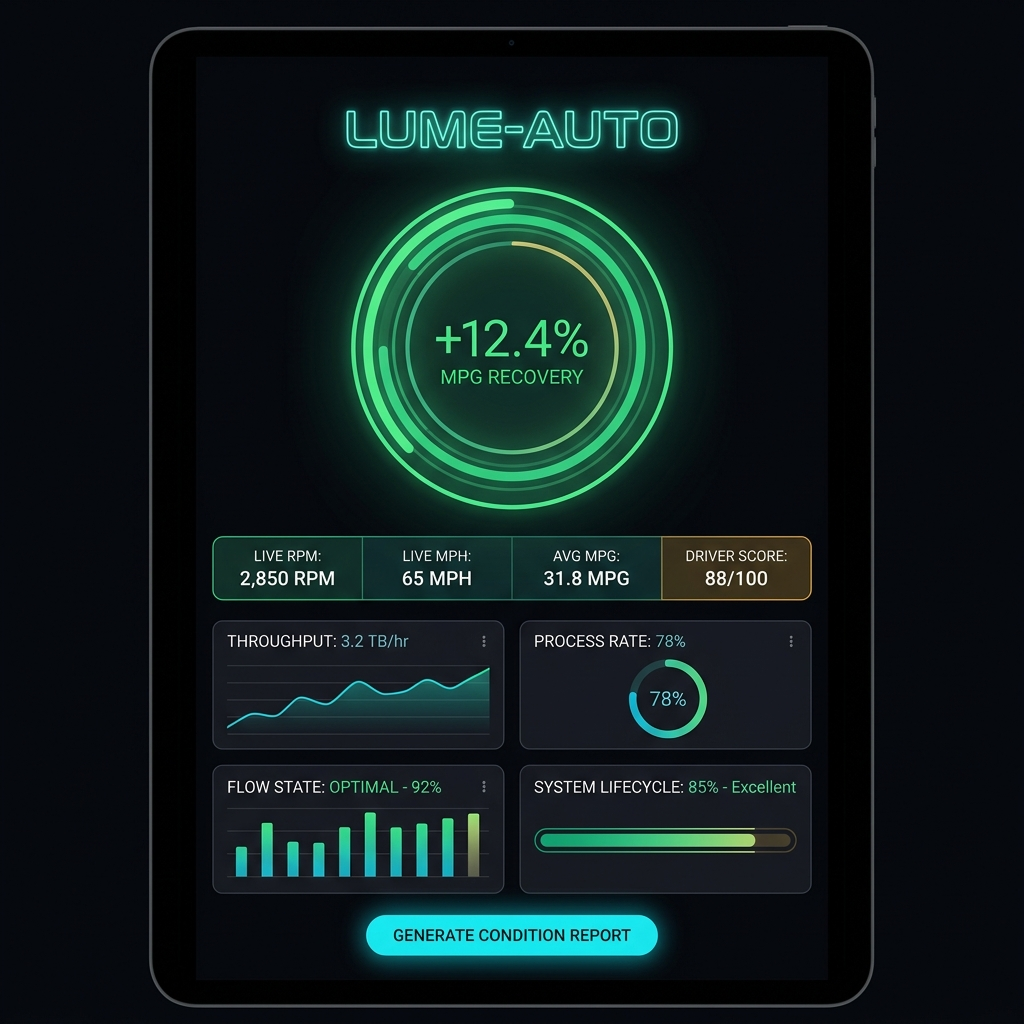
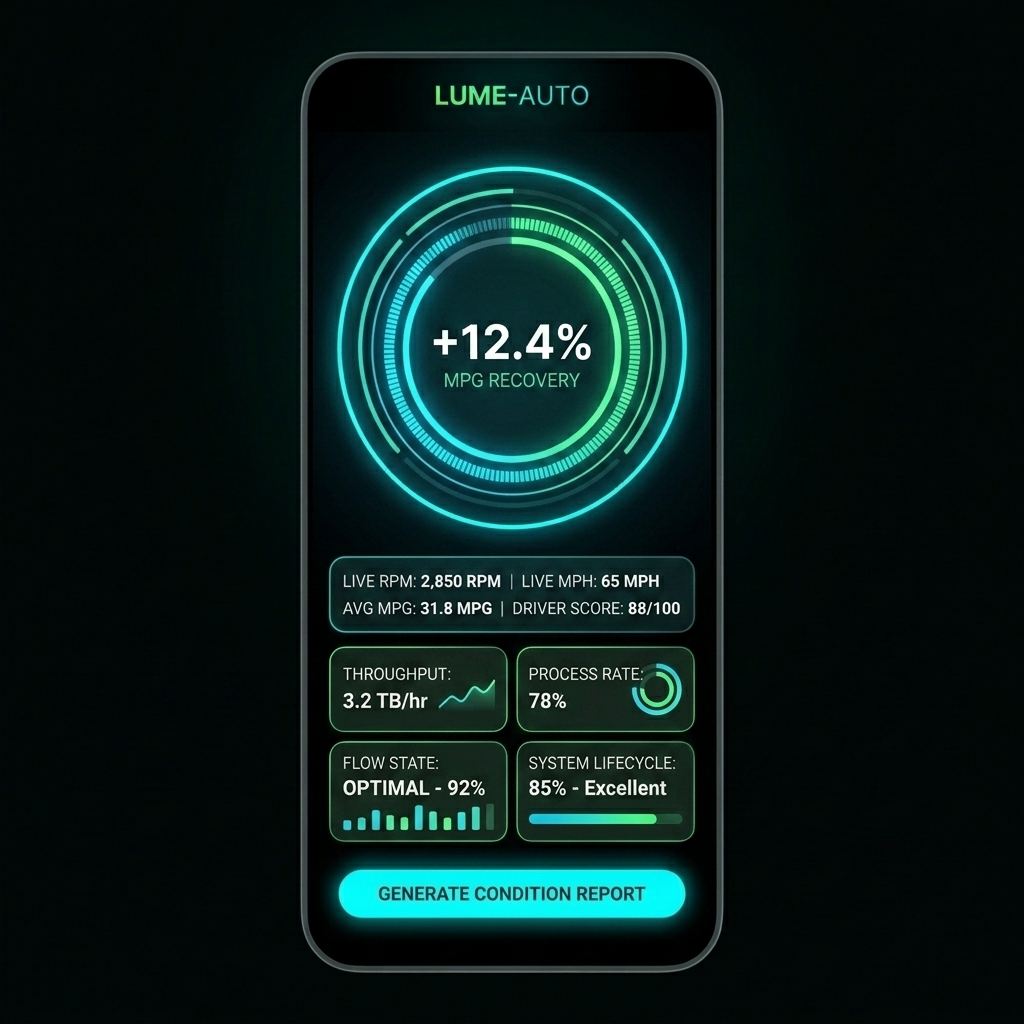
fix: Dashboard mockup now matches iPhone format, heading updated to 'LUME-Auto in Action'

diff --git a/src/components/manheim/AppShowcase.tsx b/src/components/manheim/AppShowcase.tsx
@@ -24,7 +24,7 @@ export default function AppShowcase() {
       <div className="container" style={{ maxWidth: '1100px' }}>
         <div style={{ textAlign: 'center', marginBottom: '3rem' }}>
           <p style={{ color: 'var(--accent-cyan)', fontSize: '0.8rem', fontWeight: 600, letterSpacing: '0.1em', textTransform: 'uppercase', marginBottom: '0.75rem' }}>The Application</p>
-          <h2 style={{ fontSize: '2.5rem', marginBottom: '1rem' }}>What the Native Build Looks Like</h2>
+          <h2 style={{ fontSize: '2.5rem', marginBottom: '1rem' }}>LUME-Auto in Action</h2>
           <p className="text-muted" style={{ maxWidth: '650px', margin: '0 auto', lineHeight: 1.7 }}>
             Four primary interfaces. Every screen is a window into the deterministic organism — not a static dashboard, but a live view of a self-governing runtime.
           </p>